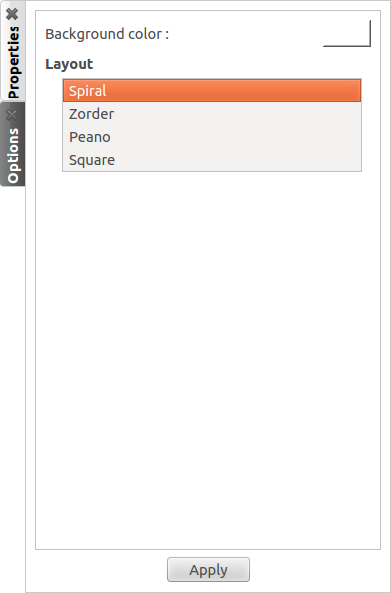
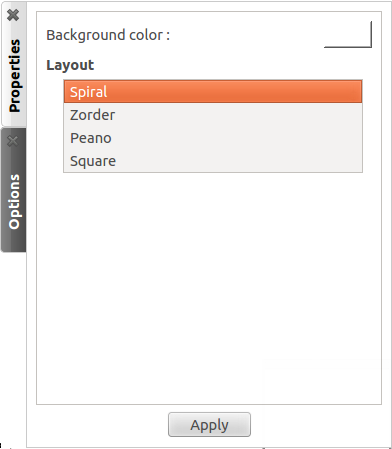
view doc fixes due to updates of views configuration widgets
git-svn-id: https://svn.code.sf.net/p/auber/code/tulip@10234 f5d4c5f9-c943-4916-8a57-bd8605bf961c

Changed region(s): [[0.0, 0.0, 1.0, 1.0], [0.9514, 0.9042, 0.9821, 0.9354]]

diff --git a/doc/user/workspace.rst b/doc/user/workspace.rst
@@ -341,7 +341,7 @@ The scene rendering settings can be opened by clicking on the **Scene** tab, in 
 
 Note that some of the settings mentioned above can be modified through the quick access bar or with the right click menu in the main window.
 
-You might need to click on the refresh button, in the top right corner of the tab to apply the changes made in this tab. The tab can be closed by clicking on the cross near the tab's name.
+The tab can be closed by clicking on the cross near the tab's name.
 	
 
 .. _workspace_diagram_layers:
@@ -349,12 +349,12 @@ You might need to click on the refresh button, in the top right corner of the ta
 Layers
 ------
 
-The layers settings can be accessed by clicking on the **Layers** tab. The following tab is then is displayed:
+The layers settings can be accessed by clicking on the **Layers** tab. The following tab is then displayed:
 
 .. image:: _images/i_workspace_layers.png
     :width: 450
 
-The first column, *Visible*, authorizes you to select the elements you want to display in the graph. The second column, *Stencil*, gives you another level of visibility by setting the objects on the foreground. 
+The first column, *Visible*, allows you to select the elements you want to display in the graph. The second column, *Stencil*, gives you another level of visibility by setting the objects on the foreground. 
 
 
 .. _workspace_diagram_faq:
@@ -410,7 +410,7 @@ The Node-Link Diagram being one of the mostly used view, it is also the one we a
 
 * *I do not like the selection color or the default node color, any suggestion ?*
 
-  The selection and default color can be customized in the *Settings* window. To open it, go through the *Edit* menu and the *Preferences* element. More information in :ref:`preferences`.
+  The selection and default color can be customized in the *Preferences* window. To open it, go through the *Edit* menu and the *Preferences* element. More information in :ref:`preferences`.
   
 
 
@@ -522,7 +522,6 @@ Settings
 By clicking on the tab in the top right corner, you can open the display settings panel.
 
 .. image:: _images/i_adjacency_settings.png
-    :width: 308
 
 Several parameters such as the background color, the node ordering and the grid and edges display visibility can be customized.
 
@@ -602,7 +601,6 @@ Geolocation
 -----------
 
 .. image:: _images/i_geographic_geoloc.png
-    :width: 450
 
 A geolocation tool has been embedded in the view, exploiting the Google Maps web service. It can appropriatly place the nodes on the map.
 
@@ -621,7 +619,6 @@ Options
 -------
 
 .. image:: _images/i_geographic_options.png
-    :width: 449
 
 The polygon map shape can be switched to your convenience with another one. Choose if you want to use the default shape, or a new one imported through a *csv* or a *poly* file. The *help* button displays additional information about the file format and the available source addresses.
 
@@ -631,19 +628,13 @@ The polygon map shape can be switched to your convenience with another one. Choo
 Scene
 -----
 
-.. image:: _images/i_geographic_scene.png
-    :width: 449
-
-The properties displayed in this panel are completely similar to the ones in the Node-Link Diagram's scene rendering panel. Report to :ref:`the Scene dedicated section<workspace_diagram_scene>` if you need additional information.
+The settings displayed in this panel are completely similar to the ones in the Node-Link Diagram's scene rendering panel. Report to :ref:`the Scene dedicated section<workspace_diagram_scene>` if you need additional information.
 
 
 .. _workspace_geographic_layers:
 
 Layers
 ------
-
-.. image:: _images/i_geographic_layers.png
-    :width: 449
 
 As for the scene panel, the layers settings behave like the one in the Node Link Diagram view. More information :ref:`Layers dedicated section<workspace_diagram_layers>`.
 
@@ -676,7 +667,6 @@ Properties
 In a similar way to what we have seen before, you can find tabs in the top right corner offering further options:
 
 .. image:: _images/i_histogram_properties.png
-    :width: 392
 
 In this panel, you can select the properties you are interested in. The nodes or edges presenting identical features will then be grouped, creating one new histogram for each property selected. This panel is only available when you are in the view presenting every histogram, the fields will be disabled otherwise.
 
@@ -767,7 +757,6 @@ Properties
 This panel provides the list of properties which can be analyzed, in the previous example, we choose the three shown in the following screenshot:
 
 .. image:: _images/i_parallel_properties.png
-    :width: 429
 
 You can specify whether you want to use nodes or edges, but also, you can sort the properties according to your needs.
 
@@ -780,7 +769,6 @@ Draw
 The second tab displays advanced options to customize the drawing of the view:
 
 .. image:: _images/i_parallel_draw.png
-    :width: 428
 
 * **General draw parameters**: set the background color and the height of the axis
 
@@ -864,7 +852,6 @@ Properties
 The first steps to follow in order to use this view is to choose the properties you want to analyze. To do so, open the *Properties* panel and select the appropriate data:
 
 .. image:: _images/i_pixel_properties.png
-    :width: 392
 
 Pixel oriented tools usually exploit a layout algorithm, moving the nodes into a specific configuration, following a space-filling curve, and ordering them according to one of the properties. The second parameter will be used to perform a color mapping, similar to the one shown in our example, aiming at underlining the correlation between the two properties.
 
@@ -876,7 +863,6 @@ Options
 This second tab proposes to choose among four space-filling curve implementations.
 
 .. image:: _images/i_pixel_options.png
-    :width: 391
 
 The nodes disposition will be arranged to match the chosen representation.
 
@@ -953,7 +939,6 @@ Properties
 The *Properties* tab works like in the previously presented view. You have to select a list of properties to analyze. You can sort them with the upwards and downwards arrows on the right.
 
 .. image:: _images/i_scatterplot_properties.png
-    :width: 392
 
 .. _workspace_scatterplot_faq:
 
@@ -961,7 +946,6 @@ Options
 -------
 
 .. image:: _images/i_scatterplot_options.png
-    :width: 392
 
 In this tab, you can select the scene and the scatterplots background color. By default, the second one uses a colorscale to indicate whether the plot correlation coefficient detects a link between the two current properties or not.
 You can customize the colorscale with a click on the *-1*, *0* and *1* buttons to specify which color to use for each value.
